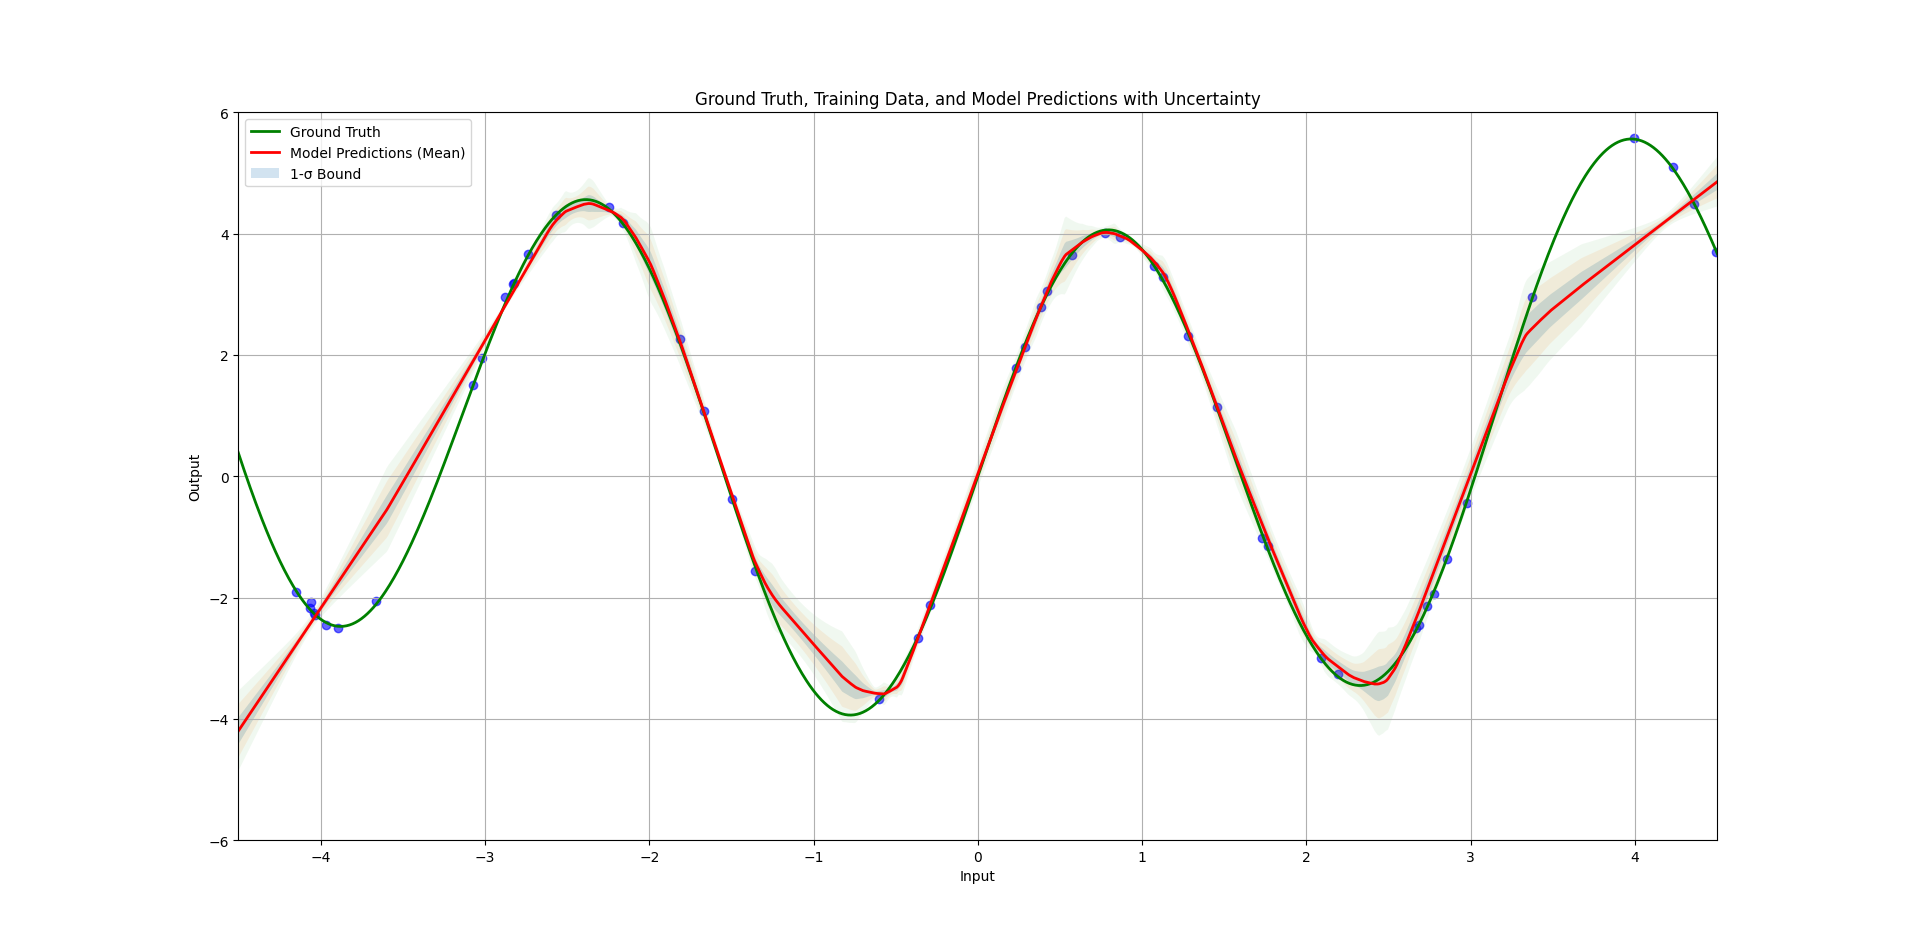
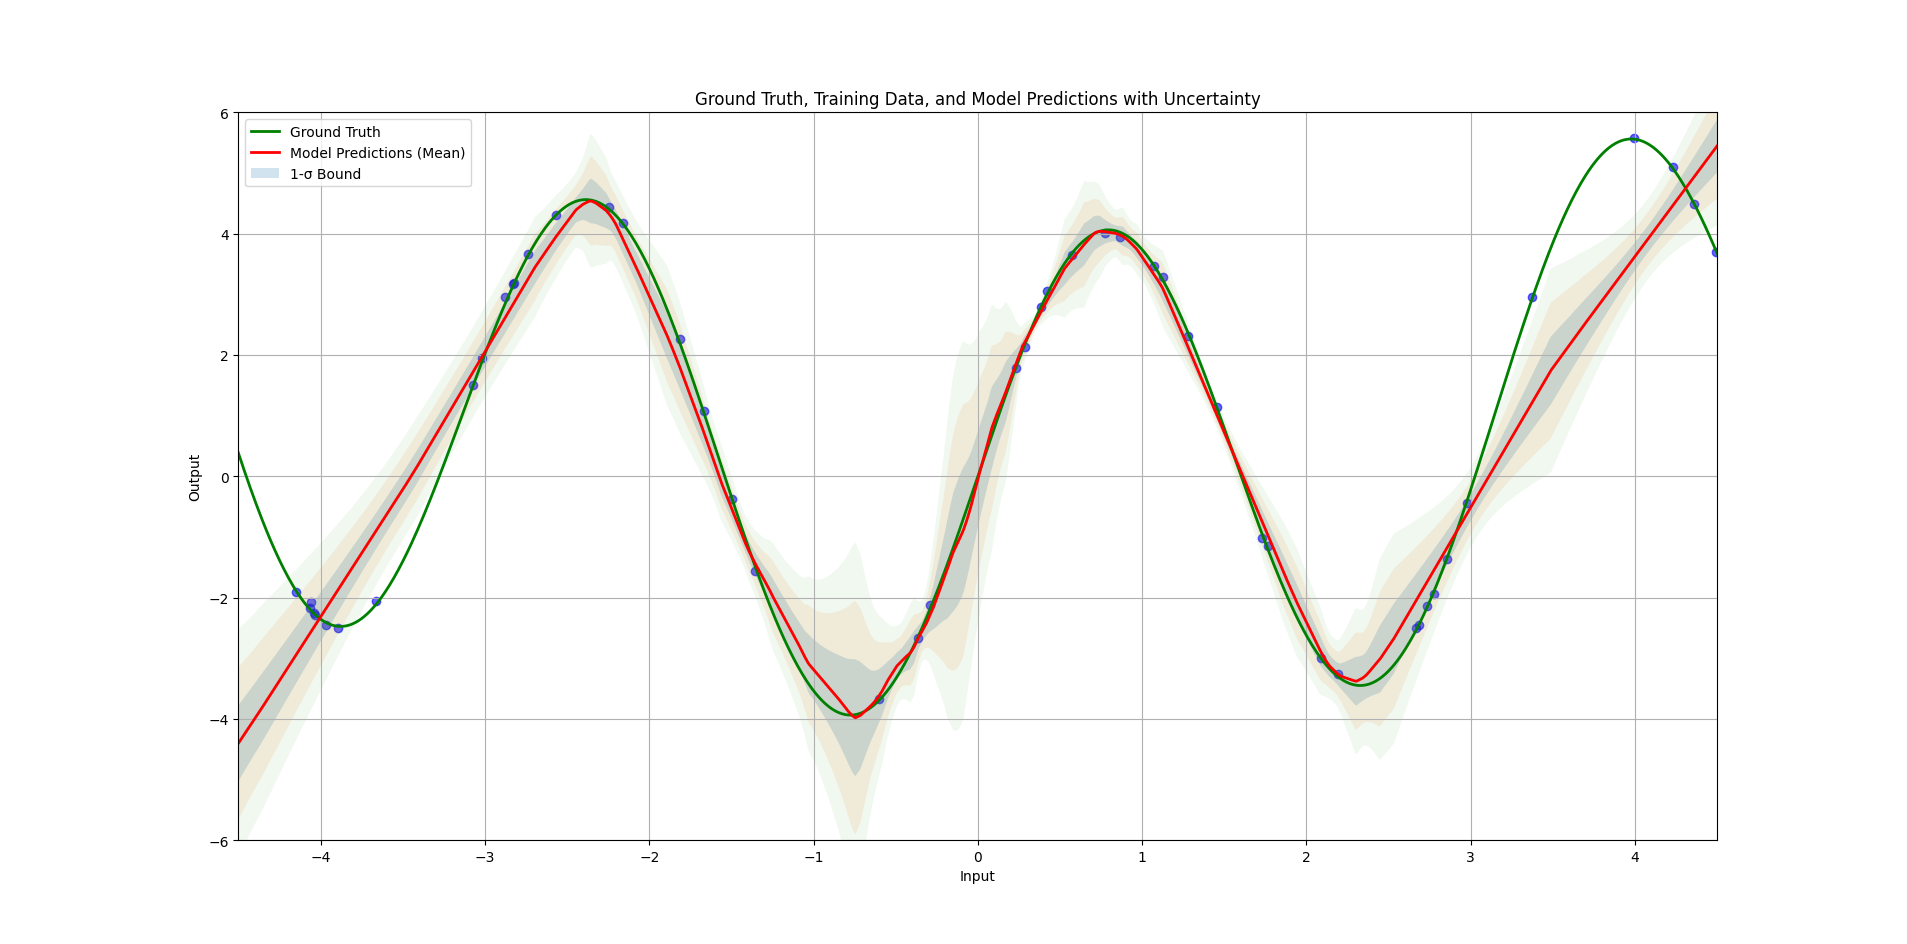
fix plot and test

Changed region(s): [[0.4022, 0.215, 0.6497, 0.8909], [0.1238, 0.1843, 0.4022, 0.8602], [0.6497, 0.1229, 0.9282, 0.768]]

diff --git a/test.py b/test.py
@@ -1,26 +1,5 @@
 import argparse
 
-# Manage running tests from Google Colab
-try:
-    import google.colab
-
-    IS_COLAB = True
-except ImportError:
-    IS_COLAB = False
-
-import matplotlib
-
-# Set appropriate Matplotlib backend based on the environment
-if IS_COLAB:
-    # Use the inline backend in Colab
-    pass
-else:
-    # Use interactive backend on local machines with display
-    try:
-        matplotlib.use("tkagg")
-    except ImportError:
-        print("Warning: TkAgg backend not found. Using default backend.")
-
 import matplotlib.pyplot as plt
 import numpy as np
 import torch
@@ -107,7 +86,7 @@ def train_SVGD(
 
     # Convert to non-parametric BNN suitable for SVGD
     model = SVGDConverter().convert(
-        SimpleModule(hidden_shape, hidden_shape_2), particle_config={"prior_std": 0.1}
+        SimpleModule(hidden_shape, hidden_shape_2), particle_config={"prior_std": 1.0}
     )
     dummy_input = torch.randn(1, 1)
     model(dummy_input, n_samples)
@@ -271,7 +250,7 @@ def main():
         description="Test Wololo Bayesian Neural Network on a toy non-linear function."
     )
     parser.add_argument(
-        "--epochs", type=int, default=700, help="Number of training epochs."
+        "--epochs", type=int, default=600, help="Number of training epochs."
     )
     parser.add_argument(
         "--learning_rate", type=float, default=0.005, help="Learning rate."
